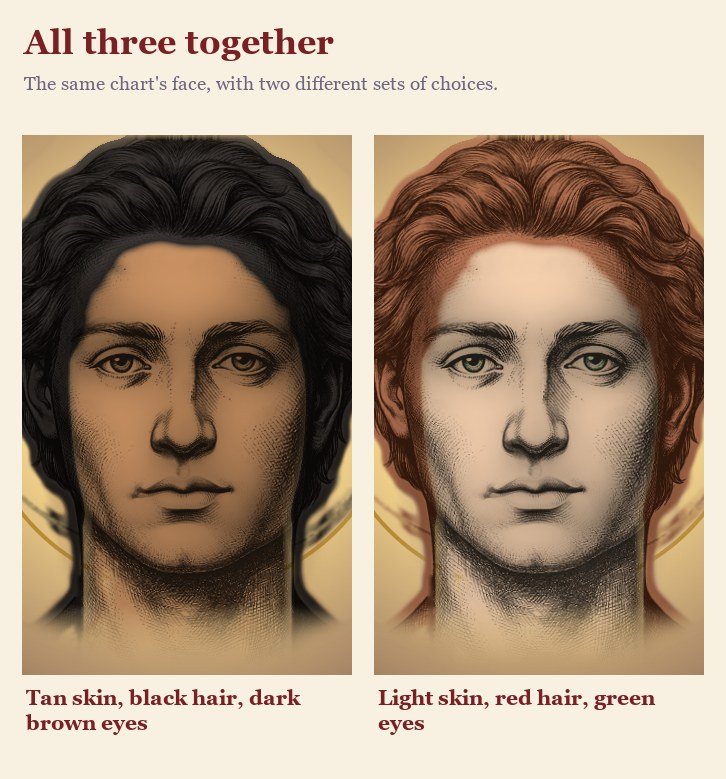
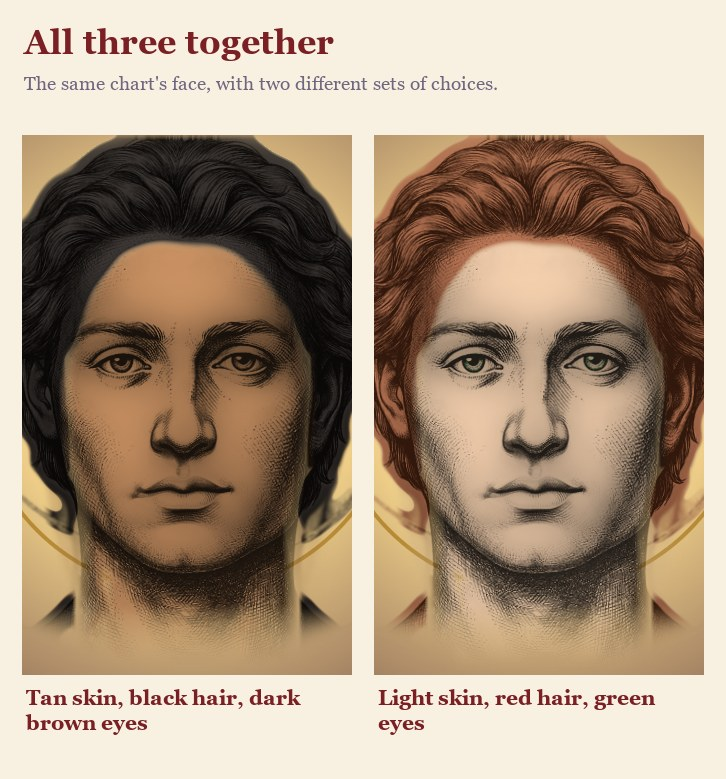
Birth Face 1.14.1: hair only from the head; colour stops at the hair
- The hair is only what is joined to the crown: stray marks around the head
  are no longer taken for hair (no dark smudges beside the neck or above)
- Gaps inside the hair are filled, so a highlight is never left uncoloured
- A hair colour stops at the hair's own edge: no dark haze on the background

diff --git a/app/js/blendface.js b/app/js/blendface.js
@@ -29,7 +29,7 @@ const BlendFace = (() => {
     auburn: [140, 62, 34], red: [178, 86, 42], "dark-blonde": [176, 140, 86], blonde: [214, 182, 116], platinum: [232, 222, 194],
     grey: [150, 148, 146], white: [228, 226, 222] };
   // hairAt(x, y): how much the point of the finished face lies in the hair (outside the face, not the neck).
-  function hairMaskOf(o, W, H, hairAt) {
+  function hairMaskOf(o, W, H, hairAt, fillAt) {
     const N = W * H, Y1 = new Float32Array(N), Y2 = new Float32Array(N);
     for (let p = 0, t = 0; p < N; p++, t += 4) { const v = o[t + 3] ? 0.299 * o[t] + 0.587 * o[t + 1] + 0.114 * o[t + 2] : 0; Y1[p] = v; Y2[p] = v * v; }
     const blur = (a, sg) => { const rad = Math.ceil(sg * 3), ker = []; let ks = 0; for (let k = -rad; k <= rad; k++) { const v = Math.exp(-0.5 * (k / sg) ** 2); ker.push(v); ks += v; }
@@ -41,20 +41,41 @@ const BlendFace = (() => {
     // ears and the plain background are not
     const m1 = blur(Y1, 1.5), m2 = blur(Y2, 1.5), sd = new Float32Array(N);
     for (let p = 0; p < N; p++) sd[p] = Math.sqrt(Math.max(0, m2[p] - m1[p] * m1[p]));
-    const tex = blur(sd, 3.5), m = new Float32Array(N);
-    for (let y = 0; y < H; y++) for (let x = 0; x < W; x++) { const p = y * W + x; if (!o[p * 4 + 3]) continue; m[p] = hairAt(x, y) * Math.min(1, Math.max(0, (tex[p] - 6) / 8)); }
-    return blur(m, 2.5);
+    const tex = blur(sd, 3.5), m = new Float32Array(N), hA = new Float32Array(N);
+    for (let y = 0; y < H; y++) for (let x = 0; x < W; x++) { const p = y * W + x; if (!o[p * 4 + 3]) continue; hA[p] = hairAt(x, y); m[p] = hA[p] * Math.min(1, Math.max(0, (tex[p] - 6) / 8)); }
+    // Only the hair that grows from the head: what is joined to the crown. Textured marks the portraits leave around
+    // the head (bits of halo rings, panel edges, stray strokes) are not hair, though they pass the strand test.
+    const sc = W / 450, bin = new Float32Array(N);
+    for (let p = 0; p < N; p++) bin[p] = m[p] > 0.3 ? 1 : 0;
+    const dil = blur(bin, 3 * sc), reach = new Uint8Array(N), q = new Int32Array(N); let qh = 0, qt = 0;
+    for (let y = Math.round(0.03 * H); y < Math.round(0.24 * H); y++) for (let x = Math.round(0.36 * W); x < Math.round(0.64 * W); x++) {
+      const p = y * W + x; if (dil[p] > 0.12 && !reach[p]) { reach[p] = 1; q[qt++] = p; } }
+    while (qh < qt) {
+      const p = q[qh++], x = p % W, y = (p - x) / W;
+      for (const n of [x > 0 ? p - 1 : -1, x < W - 1 ? p + 1 : -1, y > 0 ? p - W : -1, y < H - 1 ? p + W : -1])
+        if (n >= 0 && !reach[n] && dil[n] > 0.12) { reach[n] = 1; q[qt++] = n; }
+    }
+    if (qt < 50) return blur(m, 2.5); // no hair at the crown (a bald or unusual portrait): as before
+    // the hair as one mass: small gaps inside it (a smooth highlight, the space between curls) are filled
+    const R = new Float32Array(N); for (let p = 0; p < N; p++) R[p] = reach[p];
+    const grown = blur(R, 6 * sc), closed = new Float32Array(N);
+    for (let p = 0; p < N; p++) closed[p] = grown[p] > 0.5 ? 1 : 0;
+    const shrunk = blur(closed, 4 * sc), out = new Float32Array(N);
+    // (the filling stops at the ears and below the jaw: there smooth skin and shoulders lie beside the hair, and only
+    // real strands count)
+    for (let y = 0, p = 0; y < H; y++) for (let x = 0; x < W; x++, p++)
+      out[p] = hA[p] * Math.max(m[p] * R[p], Math.min(1, Math.max(0, (shrunk[p] - 0.55) / 0.3)) * (fillAt ? fillAt(x, y) : 1));
+    return blur(out, 2.5);
   }
   function tintHair(o, W, H, mb, rgb) {
     // The highlight between strands is only as light as the colour allows: black hair shines dark grey, not pale;
     // blonde and white hair keep their light. The strands themselves take the colour's deep shadow.
     const N = W * H, Yh = (0.299 * rgb[0] + 0.587 * rgb[1] + 0.114 * rgb[2]) / 255, lift = 0.08 + 0.32 * Yh;
     const sh = rgb.map((c) => c * 0.28), hi = rgb.map((c) => c + (255 - c) * lift);
-    // the mask reaches out to the hair's very edge (the strands' own light rim and the glow drawn around them), so no
-    // pale outline is left between the coloured hair and the background
-    const edge = gblur(Float32Array.from(mb, (v) => Math.min(1, v * 3)), W, H, 3 * W / 450);
+    // (the hair's own pale rim and the glow drawn around it are cut away with the head's silhouette, so the colour
+    // stops at the hair itself and never spreads as a dark haze onto the background)
     for (let p = 0, t = 0; p < N; p++, t += 4) {
-      const k = 0.97 * Math.min(1, Math.max(mb[p] * 1.8, edge[p] * 1.6)); if (k < 0.01 || !o[t + 3]) continue;
+      const k = 0.97 * Math.min(1, mb[p] * 1.8); if (k < 0.01 || !o[t + 3]) continue;
       const Y = 0.299 * o[t] + 0.587 * o[t + 1] + 0.114 * o[t + 2], s = Math.min(1, Math.max(0, (Y - 35) / 200)) ** 1.15;
       for (let c = 0; c < 3; c++) o[t + c] += k * (sh[c] + s * (hi[c] - sh[c]) - o[t + c]);
     }
@@ -656,7 +677,7 @@ const BlendFace = (() => {
       hair = hairMaskOf(o, W, H, (x, y) => {
         const [qx, qy] = inMean(x, y), face = Math.exp(-0.5 * (((qx - 270) / 130) ** 2 + ((qy - 345) / 186) ** 2) ** 3);
         return Math.min(1, Math.max(0, (0.4 - face) / 0.3)) * (1 - neckAt(x, y, 0.6, 0.27));
-      });
+      }, (x, y) => (1 - earAt(x, y)) * Math.min(1, Math.max(0, (0.68 - y / H) / 0.05)));
       fore = new Float32Array(N);
       const yEnd = Math.round(H * 0.5), yTop = Math.round(H * 0.45);
       for (let x = 0; x < W; x++) {
@@ -726,7 +747,8 @@ const BlendFace = (() => {
         for (let y = 0, p = 0; y < H; y++) for (let x = 0; x < W; x++, p++) {
           const t = p * 4; if (!o[t + 3]) continue;
           const [qx, qy] = inMean(x, y), face = Math.exp(-0.5 * (((qx - 270) / 152) ** 2 + ((qy - 335) / 232) ** 2) ** 3);
-          const keep = Math.max(Math.min(1, face * 1.3), neckAt(x, y, 0.55, 0.25), Math.min(1, hb[p] * 2.5), fore[p], earAt(x, y) * ear[p]);
+          const hk = hc ? Math.min(1, Math.max(0, (hair[p] - 0.15) / 0.25)) : Math.min(1, hb[p] * 2.5); // coloured hair: its own edge, no pale rim
+          const keep = Math.max(Math.min(1, face * 1.3), neckAt(x, y, 0.55, 0.25), hk, fore[p], earAt(x, y) * ear[p]);
           o[t + 3] *= keep;
         }
       }

diff --git a/app/index.html b/app/index.html
@@ -4,7 +4,7 @@
   <meta charset="utf-8">
   <meta http-equiv="Content-Security-Policy" content="default-src 'self'; script-src 'self'; style-src 'self' 'unsafe-inline'; img-src 'self' data:; font-src 'self'">
   <title>Birth Face</title>
-  <link rel="stylesheet" href="css/style.css?v=34">
+  <link rel="stylesheet" href="css/style.css?v=35">
 </head>
 <body>
   <div class="shell">
@@ -31,22 +31,22 @@
     </form>
   </dialog>
 
-  <script src="vendor/astronomy.browser.min.js?v=34"></script>
-  <script src="data/cities.js?v=34"></script>
-  <script src="js/arcana.js?v=34"></script>
-  <script src="js/matrix.js?v=34"></script>
-  <script src="js/humandesign.js?v=34"></script>
-  <script src="js/astro.js?v=34"></script>
-  <script src="js/extras.js?v=34"></script>
-  <script src="js/daily.js?v=34"></script>
-  <script src="js/dignity.js?v=34"></script>
-  <script src="js/shem/index.js?v=34"></script>
-  <script src="js/mansion/index.js?v=34"></script>
-  <script src="js/lilly/index.js?v=34"></script>
-  <script src="js/faces.js?v=34"></script>
-  <script src="js/blendface.js?v=34"></script>
-  <script src="js/rising.js?v=34"></script>
-  <script src="js/describe.js?v=34"></script>
-  <script src="js/app.js?v=34"></script>
+  <script src="vendor/astronomy.browser.min.js?v=35"></script>
+  <script src="data/cities.js?v=35"></script>
+  <script src="js/arcana.js?v=35"></script>
+  <script src="js/matrix.js?v=35"></script>
+  <script src="js/humandesign.js?v=35"></script>
+  <script src="js/astro.js?v=35"></script>
+  <script src="js/extras.js?v=35"></script>
+  <script src="js/daily.js?v=35"></script>
+  <script src="js/dignity.js?v=35"></script>
+  <script src="js/shem/index.js?v=35"></script>
+  <script src="js/mansion/index.js?v=35"></script>
+  <script src="js/lilly/index.js?v=35"></script>
+  <script src="js/faces.js?v=35"></script>
+  <script src="js/blendface.js?v=35"></script>
+  <script src="js/rising.js?v=35"></script>
+  <script src="js/describe.js?v=35"></script>
+  <script src="js/app.js?v=35"></script>
 </body>
 </html>
